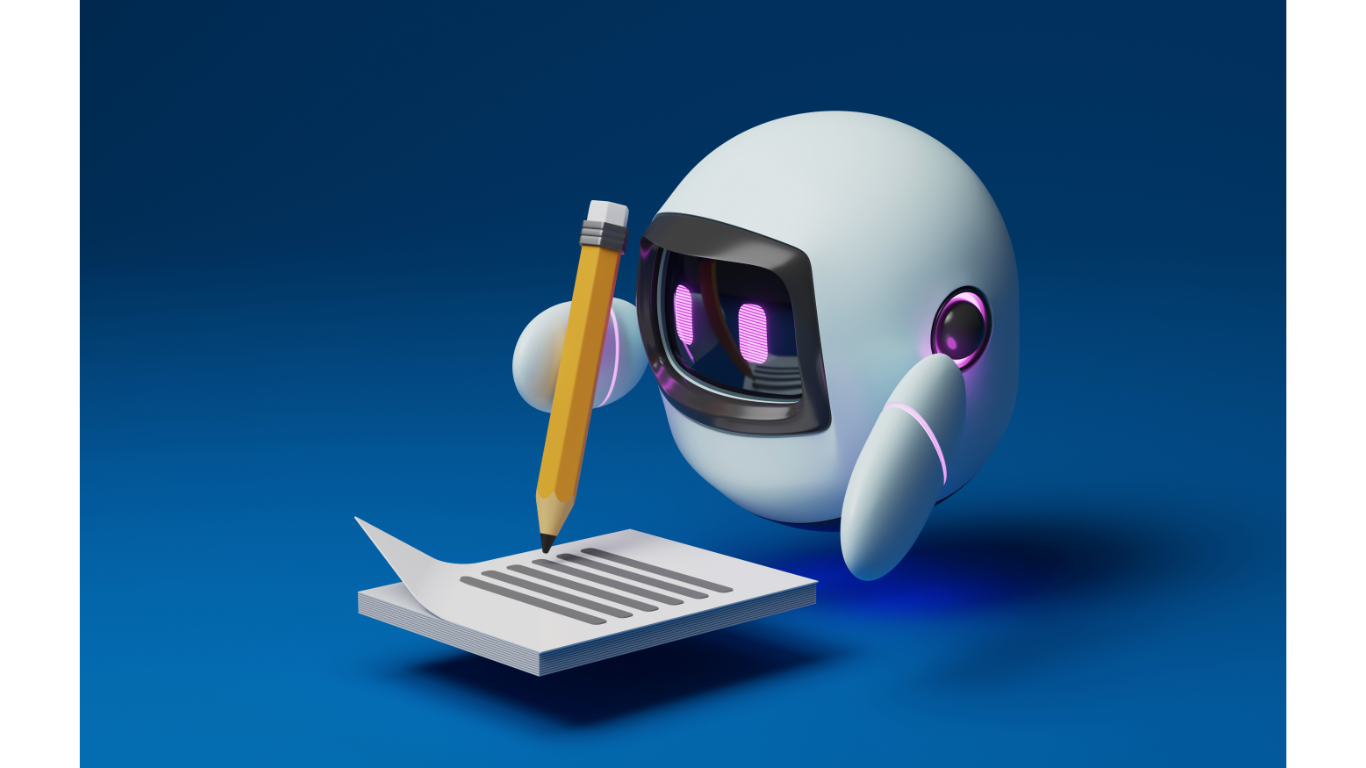
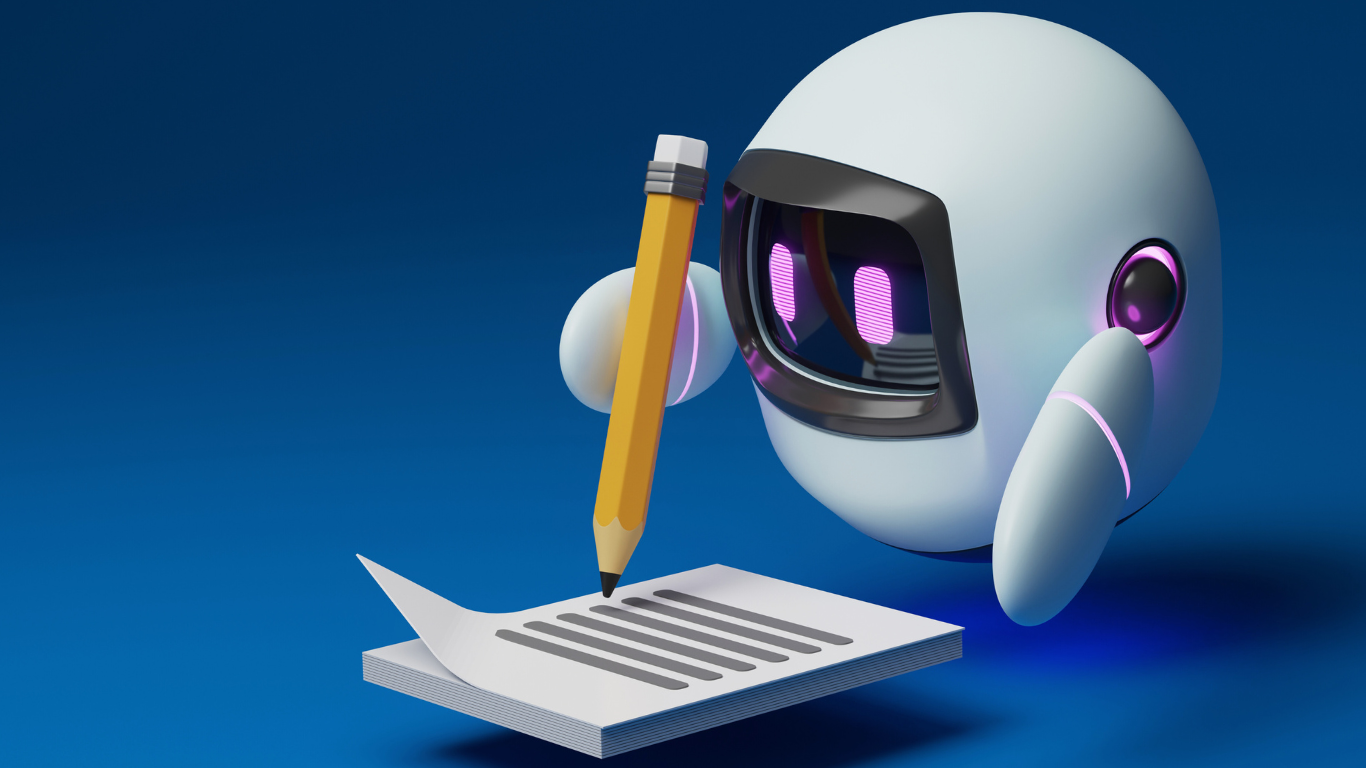
improve design

diff --git a/src/sections/Nav/Nav.jsx b/src/sections/Nav/Nav.jsx
@@ -20,7 +20,7 @@ const Nav = ({ handleLoginClick, handleSignupClick }) => {
     <section id="home-section">
       <nav className="nav-container">
         <div className="logo">
-          <Link to="/">Articlo</Link>
+          <Link to="/">Artículo</Link>
         </div>
         <input
           type="checkbox"
@@ -40,7 +40,6 @@ const Nav = ({ handleLoginClick, handleSignupClick }) => {
               className="remove-radius"
               color="dark"
               size="lg"
-              outline
               onClick={() => scrollTo("features-section")}
             >
               Features
@@ -49,7 +48,6 @@ const Nav = ({ handleLoginClick, handleSignupClick }) => {
               className="remove-radius"
               color="dark"
               size="lg"
-              outline
               onClick={() => scrollTo("pricing-section")}
             >
               Pricing
@@ -58,7 +56,6 @@ const Nav = ({ handleLoginClick, handleSignupClick }) => {
               className="remove-radius"
               color="dark"
               size="lg"
-              outline
               onClick={() => scrollTo("contact-section")}
             >
               Contact Us
@@ -68,7 +65,12 @@ const Nav = ({ handleLoginClick, handleSignupClick }) => {
             <Button size="lg" color="secondary" onClick={handleLoginClick}>
               Login
             </Button>
-            <Button size="lg" color="success" onClick={handleSignupClick}>
+            <Button
+              size="lg"
+              color="success"
+              outline
+              onClick={handleSignupClick}
+            >
               Sign Up
             </Button>
           </div>

diff --git a/src/sections/Hero/Hero.css b/src/sections/Hero/Hero.css
@@ -1,45 +1,47 @@
 .hero-container {
-  background: url('../../images/hero_img.png') center / cover;
-  margin-top: 50px;
-  height: 800px;
+  margin: 50px;
+  background: url("../../images/hero_img.png") center / cover;
+  padding: 2rem;
+  color: white;
 }
 
 .hero-title {
-  padding-left: 120px;
-  font-size: 3rem;
+  margin-top: 50px;
+  font-size: 2rem;
   font-weight: bold;
-  color: white;
+  margin-bottom: 1rem;
 }
 
 .hero-description {
   margin-top: 50px;
-  padding-left: 120px;
-  font-size: 2.2rem;
-  color:white;
-  font-weight: bold;
-  margin-bottom: 2rem;
+  font-size: 1.25rem;
+  margin-bottom: 1.5rem;
 }
 
-.larger-button {
-  width: 600px;
-  margin-left: 120px;
-  margin-top: 130px;
-  font-size: 50px !important;
+.hero-button {
+  margin-top: 50px;
+  width: 100%;
+  max-width: 300px;
+  margin-top: 1rem;
+  font-size: 1.5rem !important;
 }
 
-@media (max-width: 768px) {
+@media (min-width: 768px) {
   .hero-container {
-    height: auto;
-    padding: 2rem;
-  }
+    height: 1000px;
 
-  .hero-title {
-    font-size: 2rem;
-    margin-bottom: 0.5rem;
-  }
+    .hero-title {
+      font-size: 3rem;
+    }
 
-  .hero-description {
-    font-size: 1.25rem;
-    margin-bottom: 1rem;
+    .hero-description {
+      font-size: 2.2rem;
+      margin-bottom: 2rem;
+    }
+
+    .hero-button {
+      width: 300px;
+      font-size: 2rem !important;
+    }
   }
 }

diff --git a/src/sections/Pricing/Pricing.jsx b/src/sections/Pricing/Pricing.jsx
@@ -19,7 +19,7 @@ const Pricing = () => {
               <li>Limited monthly usage quota for content generation.</li>
               <li>Basic customer support.</li>
             </ul>
-            <Button color="primary" size="lg" outline>
+            <Button color="warning" size="lg" outline>
               Try Now for Free
             </Button>
           </div>
@@ -34,7 +34,7 @@ const Pricing = () => {
               <li>Priority customer support for faster assistance.</li>
               <li>Access to premium templates and design options.</li>
             </ul>
-            <Button color="primary" size="lg" outline>
+            <Button color="warning" size="lg" outline>
               Try Now for Free
             </Button>
           </div>
@@ -48,7 +48,7 @@ const Pricing = () => {
               <li>Unlimited monthly usage quota for content generation.</li>
               <li>Early access to new features and updates.</li>
             </ul>
-            <Button color="primary" size="lg" outline>
+            <Button color="warning" size="lg" outline>
               Try Now for Free
             </Button>
           </div>

diff --git a/src/sections/Hero/Hero.jsx b/src/sections/Hero/Hero.jsx
@@ -1,17 +1,21 @@
 import React from "react";
 import "./Hero.css";
-
 import { Button } from "reactstrap";
 
 const Hero = ({ handleSignupClick }) => {
   return (
     <div className="hero-container">
-      <h1 className="hero-title">Welcome to Our AI Blogging <br /> Platform</h1>
+      <h1 className="hero-title">Welcome to Artículo</h1>
       <p className="hero-description">
-        Write, Generate, <br /> & Share Blogs with Ease
+        Write, Generate, & edit articles <br /> or blogs with AI
       </p>
-      <Button className="larger-button" color="danger" onClick={handleSignupClick}>
-        TRY NOW
+      <Button
+        className="hero-button"
+        color="warning"
+        outline
+        onClick={handleSignupClick}
+      >
+        Get Started
       </Button>
     </div>
   );

diff --git a/src/sections/Footer/Footer.jsx b/src/sections/Footer/Footer.jsx
@@ -17,7 +17,7 @@ const Footer = () => {
             src="https://cdn.dribbble.com/userupload/3158902/file/original-7c71bfa677e61dea61bc2acd59158d32.jpg?resize=400x0"
             alt="Logo"
           />
-          <h3 className="footer-title">Articlo</h3>
+          <h3 className="footer-title">Artículo</h3>
         </div>
         <div className="footer-links">
           <ul className="footer-nav">

diff --git a/public/index.html b/public/index.html
@@ -22,7 +22,7 @@
       work correctly both with client-side routing and a non-root public URL.
       Learn how to configure a non-root public URL by running `npm run build`.
     -->
-    <title>Expert Circle</title>
+    <title>Artículo</title>
   </head>
   <body>
     <noscript>You need to enable JavaScript to run this app.</noscript>

diff --git a/src/sections/Features/Features.css b/src/sections/Features/Features.css
@@ -1,8 +1,8 @@
 .features-container {
   padding: 3rem;
   text-align: center;
+  height: auto;
   background-color: #f8f8f8;
-  min-height: 75vh;
   display: flex;
   flex-direction: column;
   justify-content: center;

diff --git a/src/sections/ContactUs/ContactUs.css b/src/sections/ContactUs/ContactUs.css
@@ -1,4 +1,5 @@
 .contact-section {
+  height: auto;
   display: flex;
   justify-content: center;
   align-items: center;
